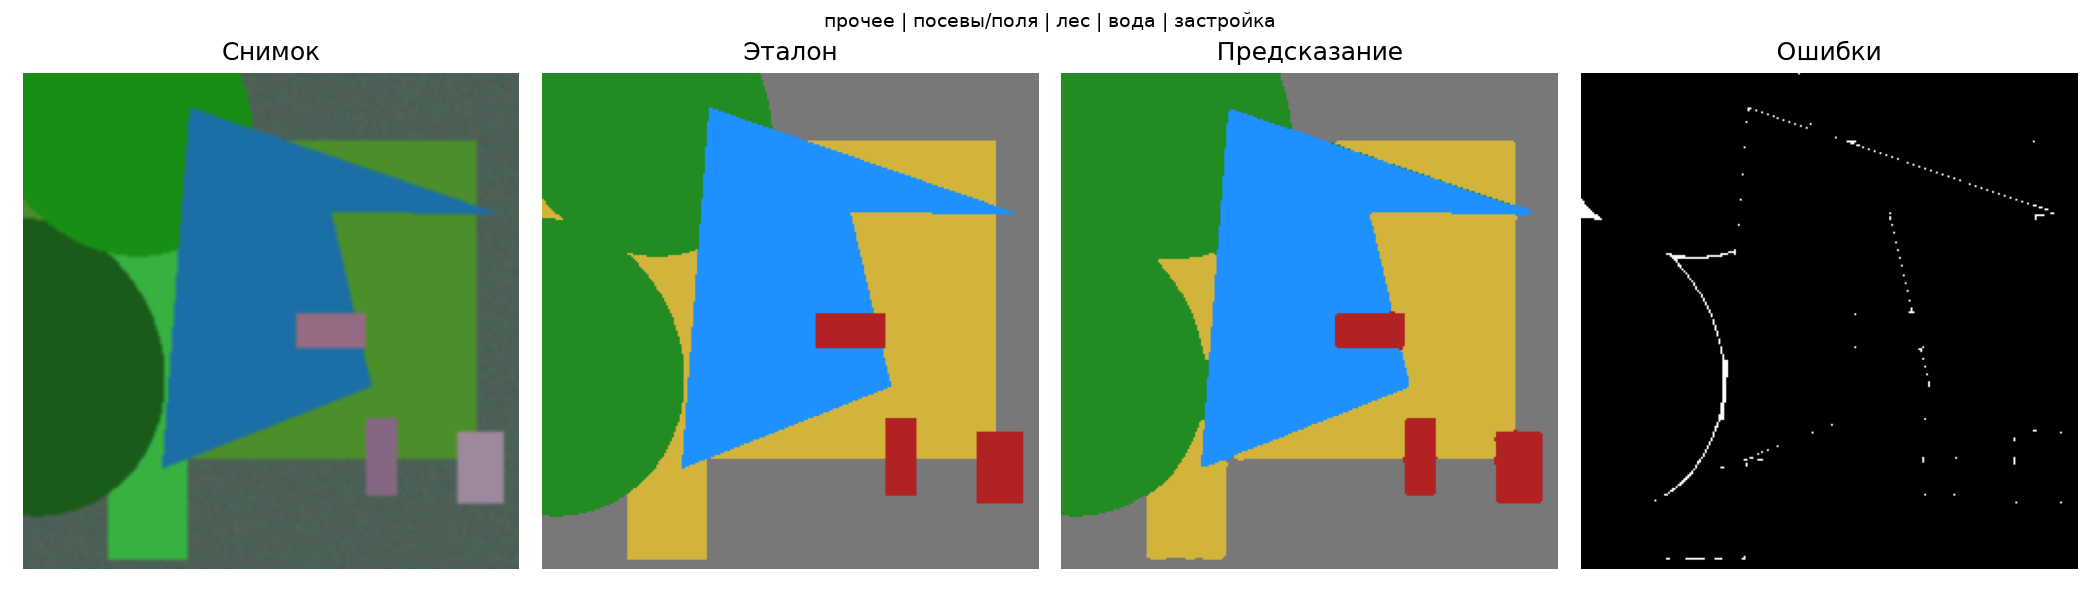
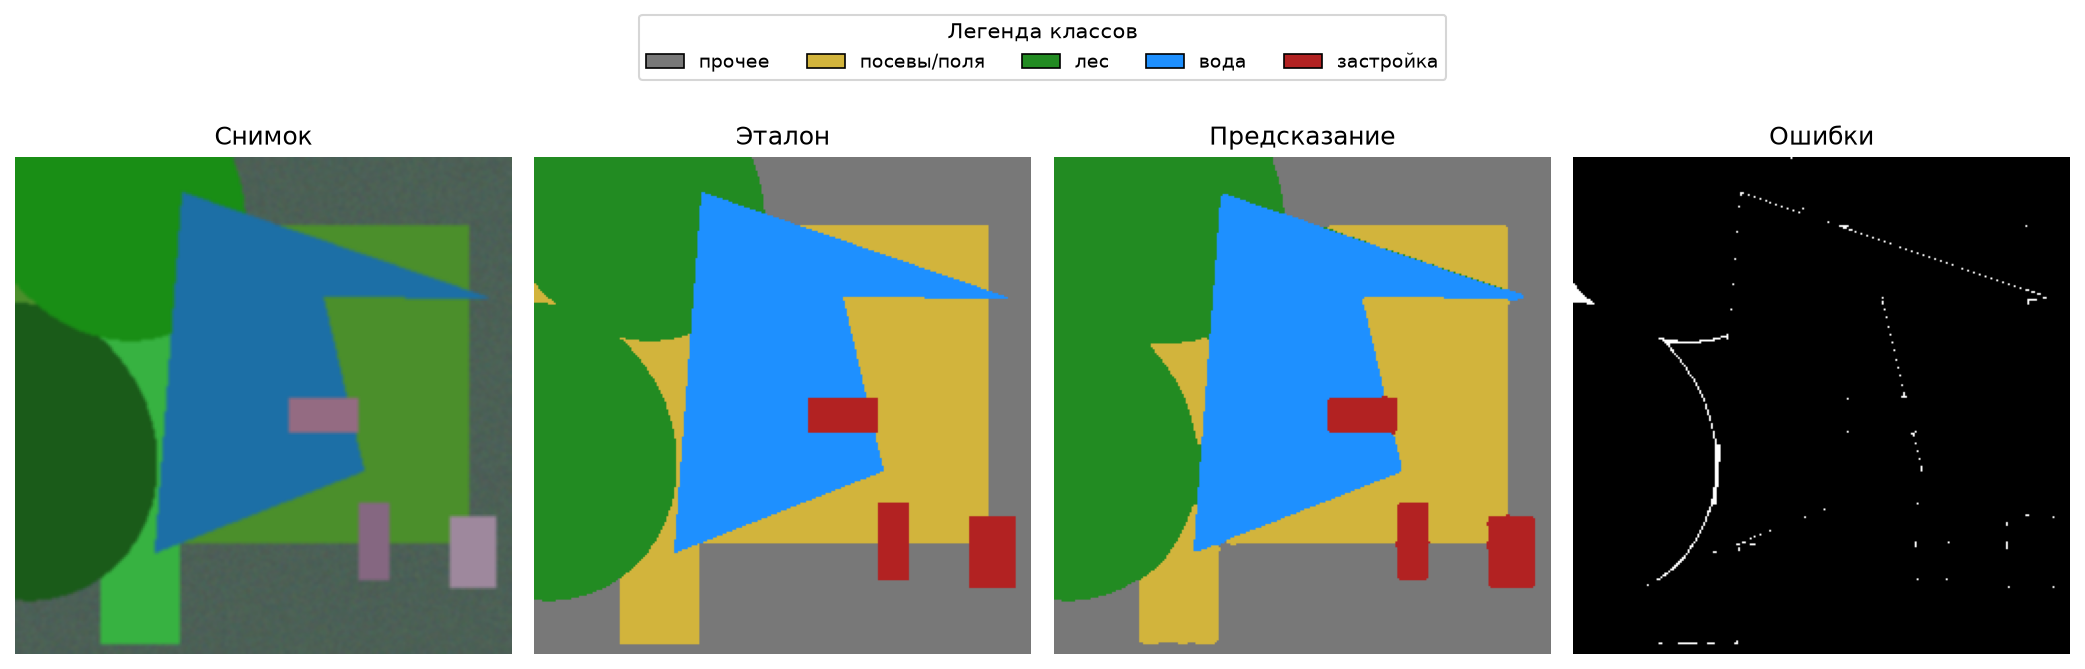
Add console menu and color legend on visualization figures.
Shows class color swatches on viz_test images and documents the interactive CLI entry point.

diff --git a/src/console_app.py b/src/console_app.py
@@ -1,0 +1,169 @@
+# -*- coding: utf-8 -*-
+"""Простое консольное меню для пайплайна сегментации спутниковых снимков."""
+
+from __future__ import annotations
+
+import os
+import subprocess
+import sys
+from pathlib import Path
+
+ROOT = Path(__file__).resolve().parents[1]
+SRC = Path(__file__).resolve().parent
+
+
+def ask_int(prompt: str, default: int) -> int:
+    """Спрашивает целое число; пустой ввод возвращает значение по умолчанию."""
+    raw = input(f"{prompt} [{default}]: ").strip()
+    if not raw:
+        return default
+    try:
+        return int(raw)
+    except ValueError:
+        print(f"Некорректное число, использую {default}.")
+        return default
+
+
+def ask_float(prompt: str, default: float) -> float:
+    """Спрашивает вещественное число; пустой ввод возвращает значение по умолчанию."""
+    raw = input(f"{prompt} [{default}]: ").strip()
+    if not raw:
+        return default
+    try:
+        return float(raw)
+    except ValueError:
+        print(f"Некорректное число, использую {default}.")
+        return default
+
+
+def run_script(script_name: str, args: list[str] | None = None) -> bool:
+    """Запускает скрипт из src/ через текущий интерпретатор Python."""
+    script = SRC / script_name
+    cmd = [sys.executable, str(script), *(args or [])]
+    print("\n>>>", " ".join(cmd))
+    env = os.environ.copy()
+    env.setdefault("PYTHONIOENCODING", "utf-8")
+    env.setdefault("TF_CPP_MIN_LOG_LEVEL", "2")
+    try:
+        result = subprocess.run(cmd, cwd=str(ROOT), env=env, check=False)
+    except KeyboardInterrupt:
+        print("\nПрервано пользователем.")
+        return False
+    if result.returncode != 0:
+        print(f"Ошибка: код возврата {result.returncode}")
+        return False
+    print(f"Готово (код {result.returncode}).")
+    return True
+
+
+def action_generate() -> None:
+    """Генерирует синтетический датасет с параметрами пользователя."""
+    print("\n— Генерация датасета —")
+    train = ask_int("Число train", 140)
+    val = ask_int("Число val", 30)
+    test = ask_int("Число test", 30)
+    size = ask_int("Размер патча", 256)
+    run_script(
+        "generate_dataset.py",
+        ["--train", str(train), "--val", str(val), "--test", str(test), "--size", str(size)],
+    )
+
+
+def action_train() -> None:
+    """Обучает U-Net с параметрами пользователя."""
+    print("\n— Обучение U-Net —")
+    epochs = ask_int("Число эпох", 20)
+    batch = ask_int("Batch size", 4)
+    lr = ask_float("Learning rate", 0.001)
+    run_script(
+        "train.py",
+        ["--epochs", str(epochs), "--batch-size", str(batch), "--lr", str(lr)],
+    )
+
+
+def action_evaluate() -> None:
+    """Оценивает модель на тестовой выборке."""
+    print("\n— Оценка на test —")
+    run_script("evaluate.py")
+
+
+def action_visualize() -> None:
+    """Строит визуализации сегментации."""
+    print("\n— Визуализация —")
+    n = ask_int("Число примеров", 3)
+    run_script("visualize.py", ["--n", str(n)])
+
+
+def full_pipeline() -> None:
+    """Запрашивает параметры один раз и выполняет шаги 1→2→3→4."""
+    print("\n— Полный пайплайн (генерация → обучение → оценка → визуализация) —")
+    train = ask_int("Число train", 140)
+    val = ask_int("Число val", 30)
+    test = ask_int("Число test", 30)
+    size = ask_int("Размер патча", 256)
+    epochs = ask_int("Число эпох", 20)
+    batch = ask_int("Batch size", 4)
+    lr = ask_float("Learning rate", 0.001)
+    n_viz = ask_int("Число примеров визуализации", 3)
+
+    steps = [
+        (
+            "generate_dataset.py",
+            ["--train", str(train), "--val", str(val), "--test", str(test), "--size", str(size)],
+        ),
+        ("train.py", ["--epochs", str(epochs), "--batch-size", str(batch), "--lr", str(lr)]),
+        ("evaluate.py", []),
+        ("visualize.py", ["--n", str(n_viz)]),
+    ]
+    for i, (script, args) in enumerate(steps, start=1):
+        print(f"\n[{i}/{len(steps)}] {script}")
+        if not run_script(script, args):
+            print("Пайплайн остановлен из-за ошибки.")
+            return
+    print("\nПолный пайплайн завершён успешно.")
+
+
+def print_menu() -> None:
+    """Печатает главное меню."""
+    print(
+        """
+========================================
+  Сегментация спутниковых снимков (U-Net)
+========================================
+  1. Сгенерировать датасет
+  2. Обучить U-Net
+  3. Оценить на test
+  4. Визуализировать результаты
+  5. Полный пайплайн (1→2→3→4)
+  0. Выход
+----------------------------------------"""
+    )
+
+
+def main() -> None:
+    """Точка входа: цикл интерактивного меню."""
+    os.environ.setdefault("PYTHONIOENCODING", "utf-8")
+    print(f"Корень проекта: {ROOT}")
+    while True:
+        print_menu()
+        choice = input("Выберите пункт: ").strip()
+        if choice == "1":
+            action_generate()
+        elif choice == "2":
+            action_train()
+        elif choice == "3":
+            action_evaluate()
+        elif choice == "4":
+            action_visualize()
+        elif choice == "5":
+            full_pipeline()
+        elif choice == "0":
+            print("Выход.")
+            break
+        else:
+            print("Неизвестный пункт. Введите 0–5.")
+        input("\nНажмите Enter, чтобы вернуться в меню…")
+
+
+if __name__ == "__main__":
+    main()

diff --git a/src/visualize.py b/src/visualize.py
@@ -10,6 +10,7 @@ import cv2
 import matplotlib.pyplot as plt
 import numpy as np
 import tensorflow as tf
+from matplotlib.patches import Patch
 
 sys.path.insert(0, str(Path(__file__).resolve().parent))
 
@@ -25,6 +26,15 @@ def colorize_mask(mask: np.ndarray) -> np.ndarray:
     for cls, color in CLASS_COLORS.items():
         rgb[mask == cls] = color
     return rgb
+
+
+def build_class_legend_handles() -> list[Patch]:
+    """Создаёт цветные маркеры легенды (квадрат + имя класса)."""
+    handles = []
+    for cls, name in enumerate(CLASS_NAMES):
+        rgb = np.array(CLASS_COLORS[cls], dtype=np.float64) / 255.0
+        handles.append(Patch(facecolor=rgb, edgecolor="black", linewidth=0.8, label=name))
+    return handles
 
 
 def main() -> None:
@@ -50,7 +60,7 @@ def main() -> None:
         pred_cls = np.argmax(pred, axis=-1).astype(np.int32)
         err = (mask != pred_cls).astype(np.uint8) * 255
 
-        fig, axes = plt.subplots(1, 4, figsize=(14, 4))
+        fig, axes = plt.subplots(1, 4, figsize=(14, 4.6))
         axes[0].imshow(image)
         axes[0].set_title("Снимок")
         axes[1].imshow(colorize_mask(mask))
@@ -61,19 +71,29 @@ def main() -> None:
         axes[3].set_title("Ошибки")
         for ax in axes:
             ax.axis("off")
-        fig.suptitle(" | ".join(CLASS_NAMES), fontsize=9)
-        fig.tight_layout()
+
+        handles = build_class_legend_handles()
+        fig.legend(
+            handles=handles,
+            loc="upper center",
+            ncol=len(CLASS_NAMES),
+            fontsize=9,
+            frameon=True,
+            title="Легенда классов",
+            bbox_to_anchor=(0.5, 1.02),
+        )
+        fig.tight_layout(rect=[0, 0, 1, 0.88])
         out_path = args.out / f"viz_test_{i + 1}.png"
-        fig.savefig(out_path, dpi=150)
+        fig.savefig(out_path, dpi=150, bbox_inches="tight")
         plt.close(fig)
         print(f"saved {out_path}")
 
-    # легенда
+    # отдельный файл легенды для приложений
     legend = np.zeros((60, 500, 3), dtype=np.uint8)
     x = 10
     for cls, name in enumerate(CLASS_NAMES):
         color = CLASS_COLORS[cls]
-        cv2.rectangle(legend, (x, 15), (x + 30, 45), color[::-1], -1)  # BGR for cv2
+        cv2.rectangle(legend, (x, 15), (x + 30, 45), color[::-1], -1)
         cv2.putText(
             legend,
             name,

diff --git a/README.md b/README.md
@@ -10,8 +10,18 @@
 
 Синтетический land-cover датасет + U-Net (TensorFlow/Keras).
 
+### Консольное меню (рекомендуется)
+
 ```bash
 python -m pip install -r requirements.txt
+python src/console_app.py
+```
+
+В меню: генерация датасета, обучение, оценка, визуализация или полный пайплайн.
+
+### Запуск скриптов по отдельности
+
+```bash
 python src/generate_dataset.py --train 140 --val 30 --test 30
 python src/train.py --epochs 20 --batch-size 4
 python src/evaluate.py
@@ -25,5 +35,6 @@ python src/visualize.py --n 3
 | Путь | Назначение |
 |------|------------|
 | `src/` | исходники прототипа |
+| `src/console_app.py` | консольное меню |
 | `experiment/data/` | train/val/test патчи |
 | `experiment/outputs/` | артефакты обучения |
